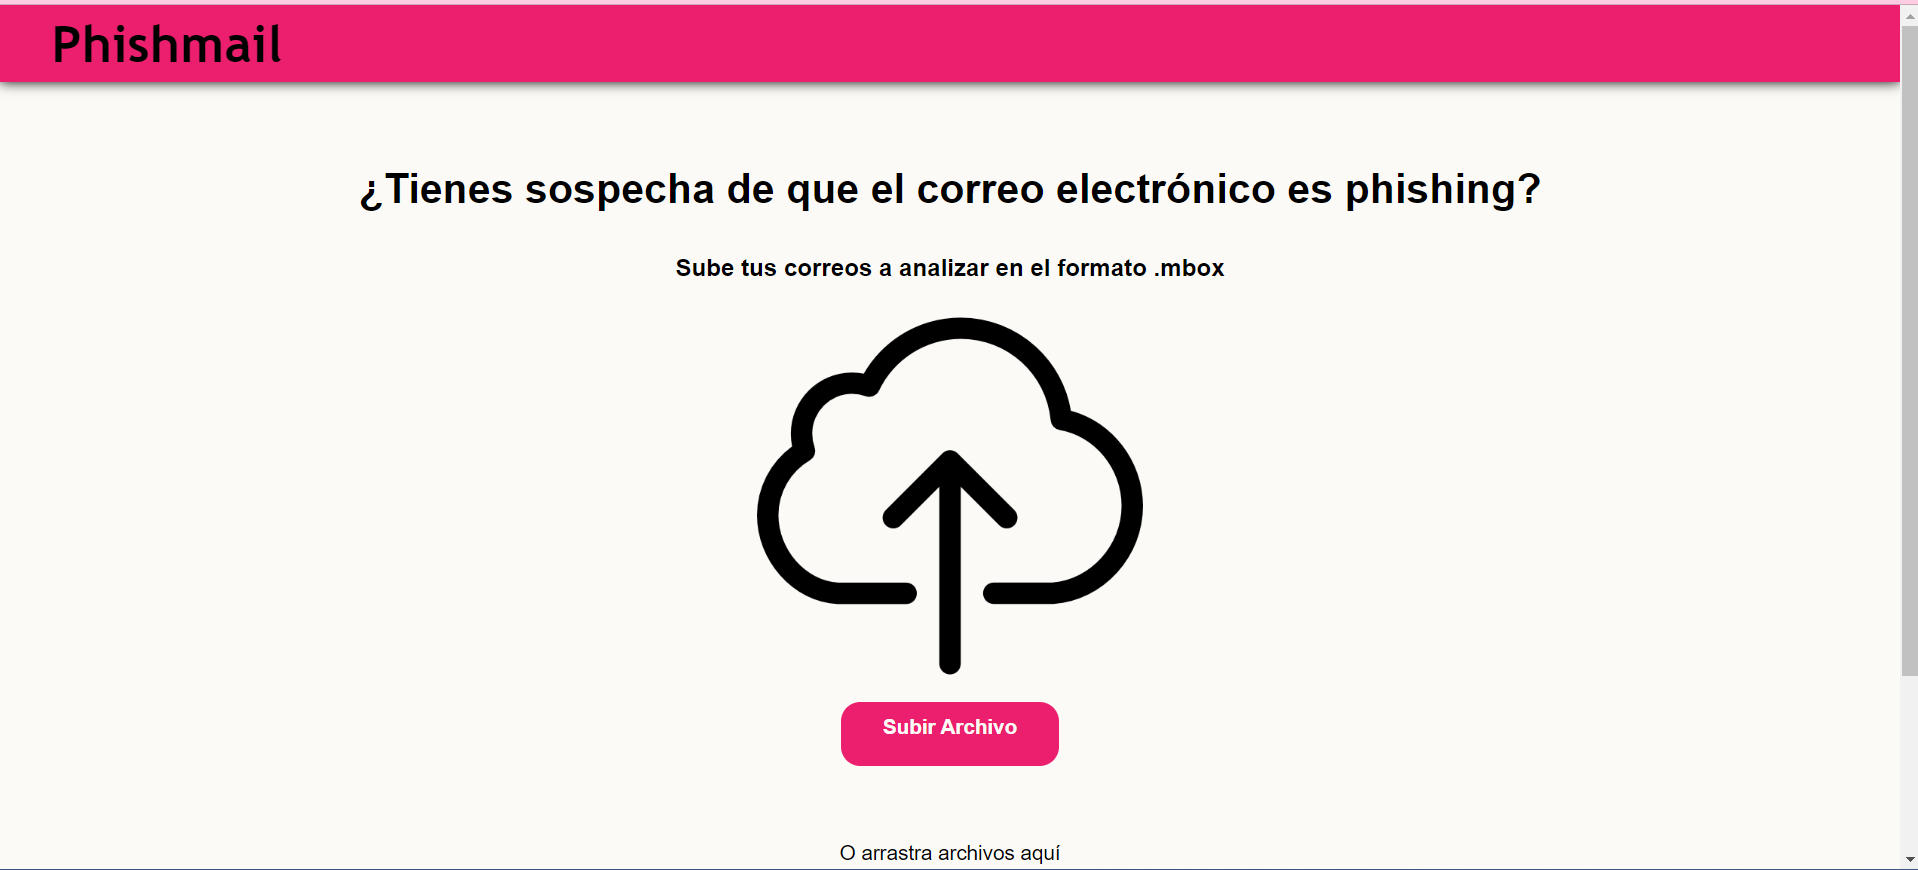
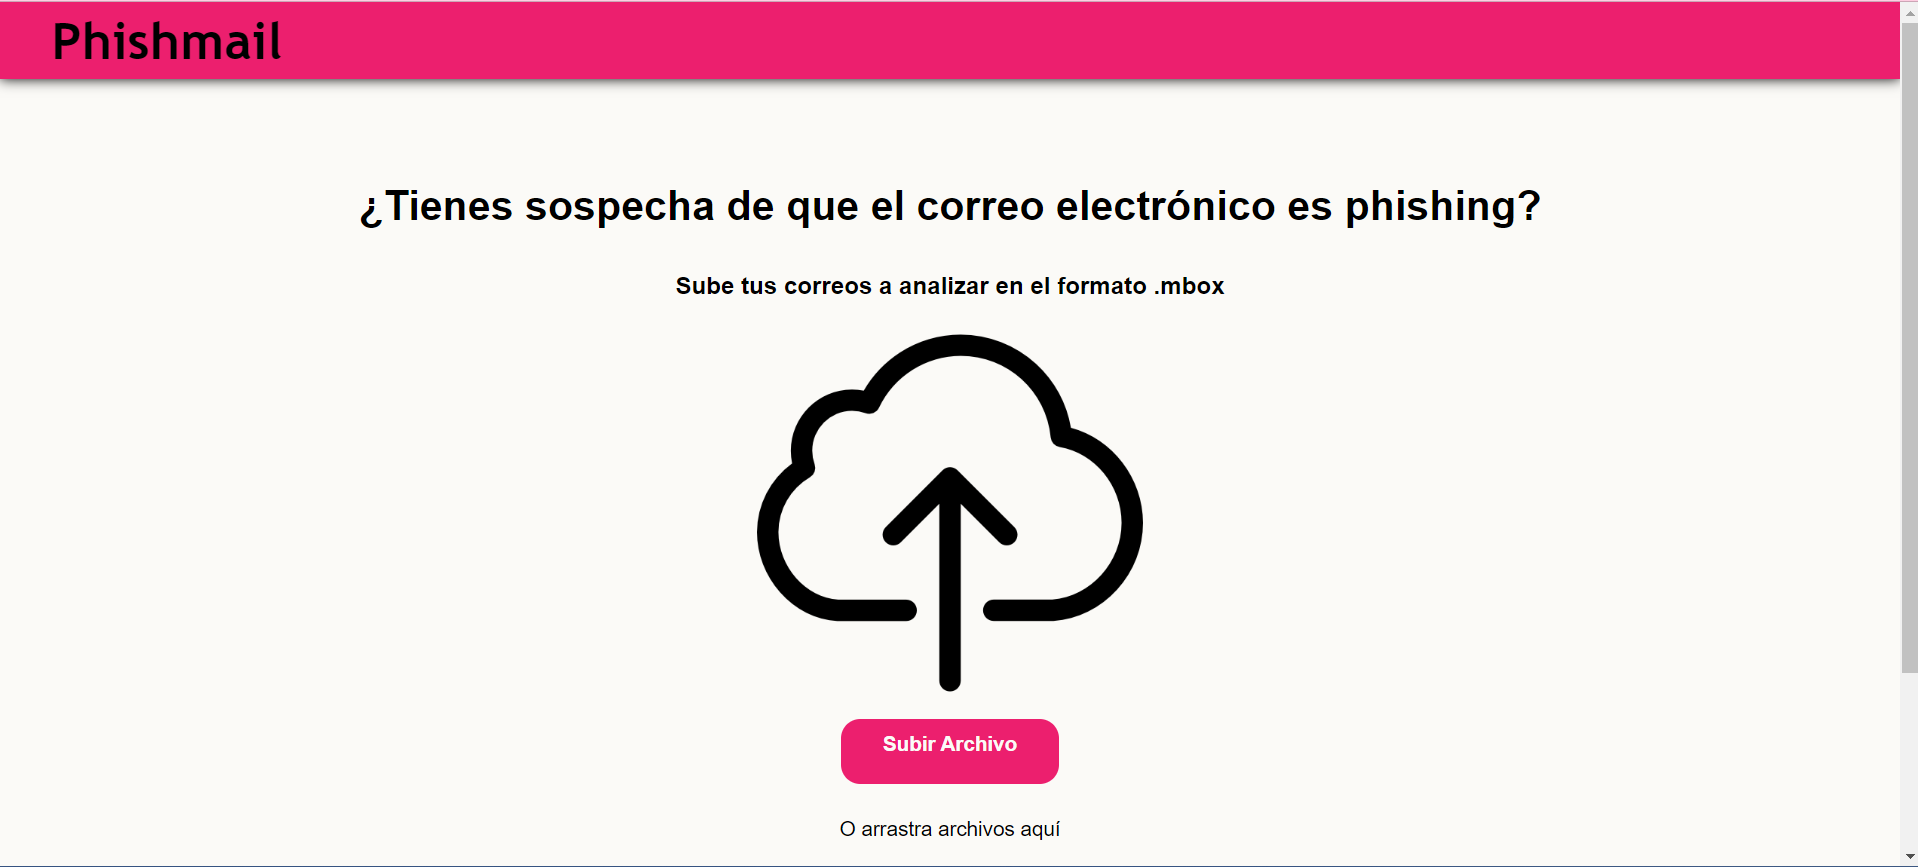
Arreglo de pantalla de carga

diff --git a/src/SubirArchivos/UploadMedia.js b/src/SubirArchivos/UploadMedia.js
@@ -1,5 +1,6 @@
 import subir from "../images/subir.png";
 import './uploadMedia.css'
+import { LoadingPage } from "../LoadingPage/LoadingPage.js";
 import React, { useState, useEffect } from "react";
 import { useNavigate } from 'react-router-dom';
 
@@ -7,6 +8,8 @@ function UploadMedia() {
   const [data, setData] = useState("");
   const [file, setFile] = useState(null);
   const [fileName, setFileName] = useState('');
+  const [isLoading, setIsLoading] = useState(false);
+  const [error, setError] = useState(null);
   const navigate = useNavigate();
 
   useEffect(() => {
@@ -17,16 +20,17 @@ function UploadMedia() {
 
   const onFileChange = async (event) => {
 
-    const selectedFile = event.target.files[0];
+    const selectedFile = event.target.files ? event.target.files[0] : event.dataTransfer.files[0];
     if(selectedFile){
       setFile(selectedFile);
       setFileName(selectedFile.name); 
-      //navigate('/loading');
-      // fetchData();
+      //fetchData();
   }
 };
 
    const fetchData = async () => {
+    setIsLoading(true);
+    setError(null);
      try {
        const formData = new FormData();
        formData.append("mbox_file", file);
@@ -46,24 +50,44 @@ function UploadMedia() {
        //Este objeto state es accesible en el componente de destino a través del hook useLocation. 
        //Este enfoque se utiliza para enviar datos de forma segura y privada entre rutas sin tener que usar la URL para almacenarlos
      } catch (error) {
-       console.error("Error fetching data:", error);
+        setError("Error fetching data: " + error.message);
+        console.error("Error fetching data:", error);
+        setIsLoading(false); 
      }
    };
 
+   const handleDragOver = (event) => {
+    event.preventDefault(); // Necesario para permitir el drop
+  };
+
+  const handleDrop = (event) => {
+    event.preventDefault();
+    onFileChange(event); // Reutiliza onFileChange para manejar archivos dropeados
+  };
+
+
   return (
-    <div className="uploadMedia">
-      <h1>¿Tienes sospecha de que el correo electrónico es phishing?</h1>
-      <h3>Sube tus correos a analizar en el formato .mbox</h3>
-      <img src={subir} alt="" />
-      <input type="file" 
-        id="file-input"
-        style={{ display: 'none' }}
-        onChange={onFileChange} />
-      <label htmlFor="file-input" className="buttonexaminar">
-        {fileName || 'Subir Archivo'}
-      </label>
-      <p>{data}</p> 
-      <p> O arrastra archivos aquí</p>
+    <div className="uploadMedia"
+      onDragOver={handleDragOver}
+      onDrop={handleDrop}>
+
+      {isLoading ? (
+        <LoadingPage/>
+      ) : (
+       <>
+          <h1>¿Tienes sospecha de que el correo electrónico es phishing?</h1>
+          <h3>Sube tus correos a analizar en el formato .mbox</h3>
+          <img src={subir} alt="" />
+          <input type="file" 
+            id="file-input"
+            style={{ display: 'none' }}
+            onChange={onFileChange} />
+          <label htmlFor="file-input" className="buttonexaminar">
+            {fileName || 'Subir Archivo'}
+          </label>
+          <p> O arrastra archivos aquí</p>  
+        </>
+      )}
     </div>
   );
 }

diff --git a/src/Tutorial/Tutorial.js b/src/Tutorial/Tutorial.js
@@ -1,5 +1,6 @@
 import "./tutorial.css"
-import gestores from "../images/gestores.png"
+import gestorGoogle  from "../images/gestoresGoogle.png"
+import gestorOutlook from "../images/gestoresOutlook.png"
 import ejemplo from "../images/ejemploCorreo.png"
 import blocNotas from "../images/textPlano.png"
 import capturaApp from "../images/capturaApp.png"
@@ -11,11 +12,15 @@ function Tutorial(){
             <h1> ¿Cómo utilizo phishmail? </h1>
             <ol>
                 <li> Para poder utilizar nuestra aplicación debes de ir a tu gestor de correos de tu preferencia.
-                    Puede ser cualquier correo electronico de cualquier dispositivo
-                    <img src={gestores} className="gestor" alt=" "/>
+                    Puede ser cualquier correo electrónico de cualquier dispositivo
+                    <span className="gestor">
+                        <img src={gestorGoogle}  alt=" "/>
+                        <img src={gestorOutlook} alt=""/>
+                    </span>
+                    
                 </li>
                 <li> Selecciona el correo que quieras inspeccionar y descargalo en formato .mbox
-                    En caso de ser gmail, da clic a los tres puntos del lado derecho en el correo y presiona descargar
+                    En caso de ser Gmail, da clic a los tres puntos del lado derecho en el correo y presiona descargar
                     <img src={ejemplo} className="capturas" alt=" " />
                 </li>
 
@@ -27,8 +32,8 @@ function Tutorial(){
                 <li> Abre phishmail y sube el archivo que descargaste en el botón “Usar phishing"
                     <img src={capturaApp} className="capturaApp" alt=" " />
                 </li>
-                <li> Y listo, ya estas listo para utilizar phishmail 
-                    <Link to="UploadMedia" className="linkdecor">
+                <li> Y listo, ya puedes utilizar phishmail 
+                    <Link to="/UploadMedia" className="linkdecor">
                         <button 
                         className="leemas2">
                         Usa Phishmail

diff --git a/src/Tutorial/tutorial.css b/src/Tutorial/tutorial.css
@@ -19,20 +19,30 @@ ol{
 li{
     font-size: 22px;
     text-align: justify;
-    padding: 10px;
+    padding: 20px;
 }
 
 .gestor{
-    width: 400px;
+    width: 260px;
     height: 150px;
-    display: block;
+    display: flex;
+    align-items: center;
+    justify-content: center;
     margin: 0 auto;
     border-top-left-radius: 15px;
-    border-top-right-radius: 15px;
+    border-top-right-radius: 15px; 
+
+}
+
+.gestor img{
+    width: 260px;
+    height: 150px;
+   
 }
 
 .capturas{
-    width: auto;
+    width: 700px;
+    height: 350px;
     display: block;
     margin: 0 auto;
     padding: 30px;
@@ -42,9 +52,10 @@ li{
 
 .capturaApp{
     width: 700px;
-    height: 400px;
+    height: 350px;
     display: block;
     margin: 0 auto;
+    padding: 30px;
     border-top-left-radius: 15px;
     border-top-right-radius: 15px;
 }

diff --git a/src/App.js b/src/App.js
@@ -9,7 +9,7 @@ import { AppItem } from "./AppItem/AppItem.js";
 import { AppFooter } from "./AppFooter/AppFooter.js";
 import {Tutorial} from "./Tutorial/Tutorial.js";
 import {Results} from "./results/Results.js";
-// import { LoadingPage } from "./LoadingPage/LoadingPage.js";
+import { LoadingPage } from "./LoadingPage/LoadingPage.js";
 import {
   BrowserRouter as Router,
   Routes,
@@ -47,10 +47,10 @@ function App() {
           </div>
           }/>
 
-          {/* <Route exact path="/loading" element={<div>
+          <Route exact path="/loading" element={<div>
             <LoadingPage/>
           </div>
-          }/> */}
+          }/>
 
           <Route exact path="/tutorial" element={<div>
             <Tutorial/>

diff --git a/src/SubirArchivos/uploadMedia.css b/src/SubirArchivos/uploadMedia.css
@@ -9,7 +9,6 @@
   margin-bottom: 0;
 }
 
-
 .uploadMedia h1,h3{
     margin: 0;
     padding-top: 16px;
@@ -26,6 +25,7 @@
     margin: 0 auto;
     
 }
+
 
 .buttonexaminar {    
     display: block;
